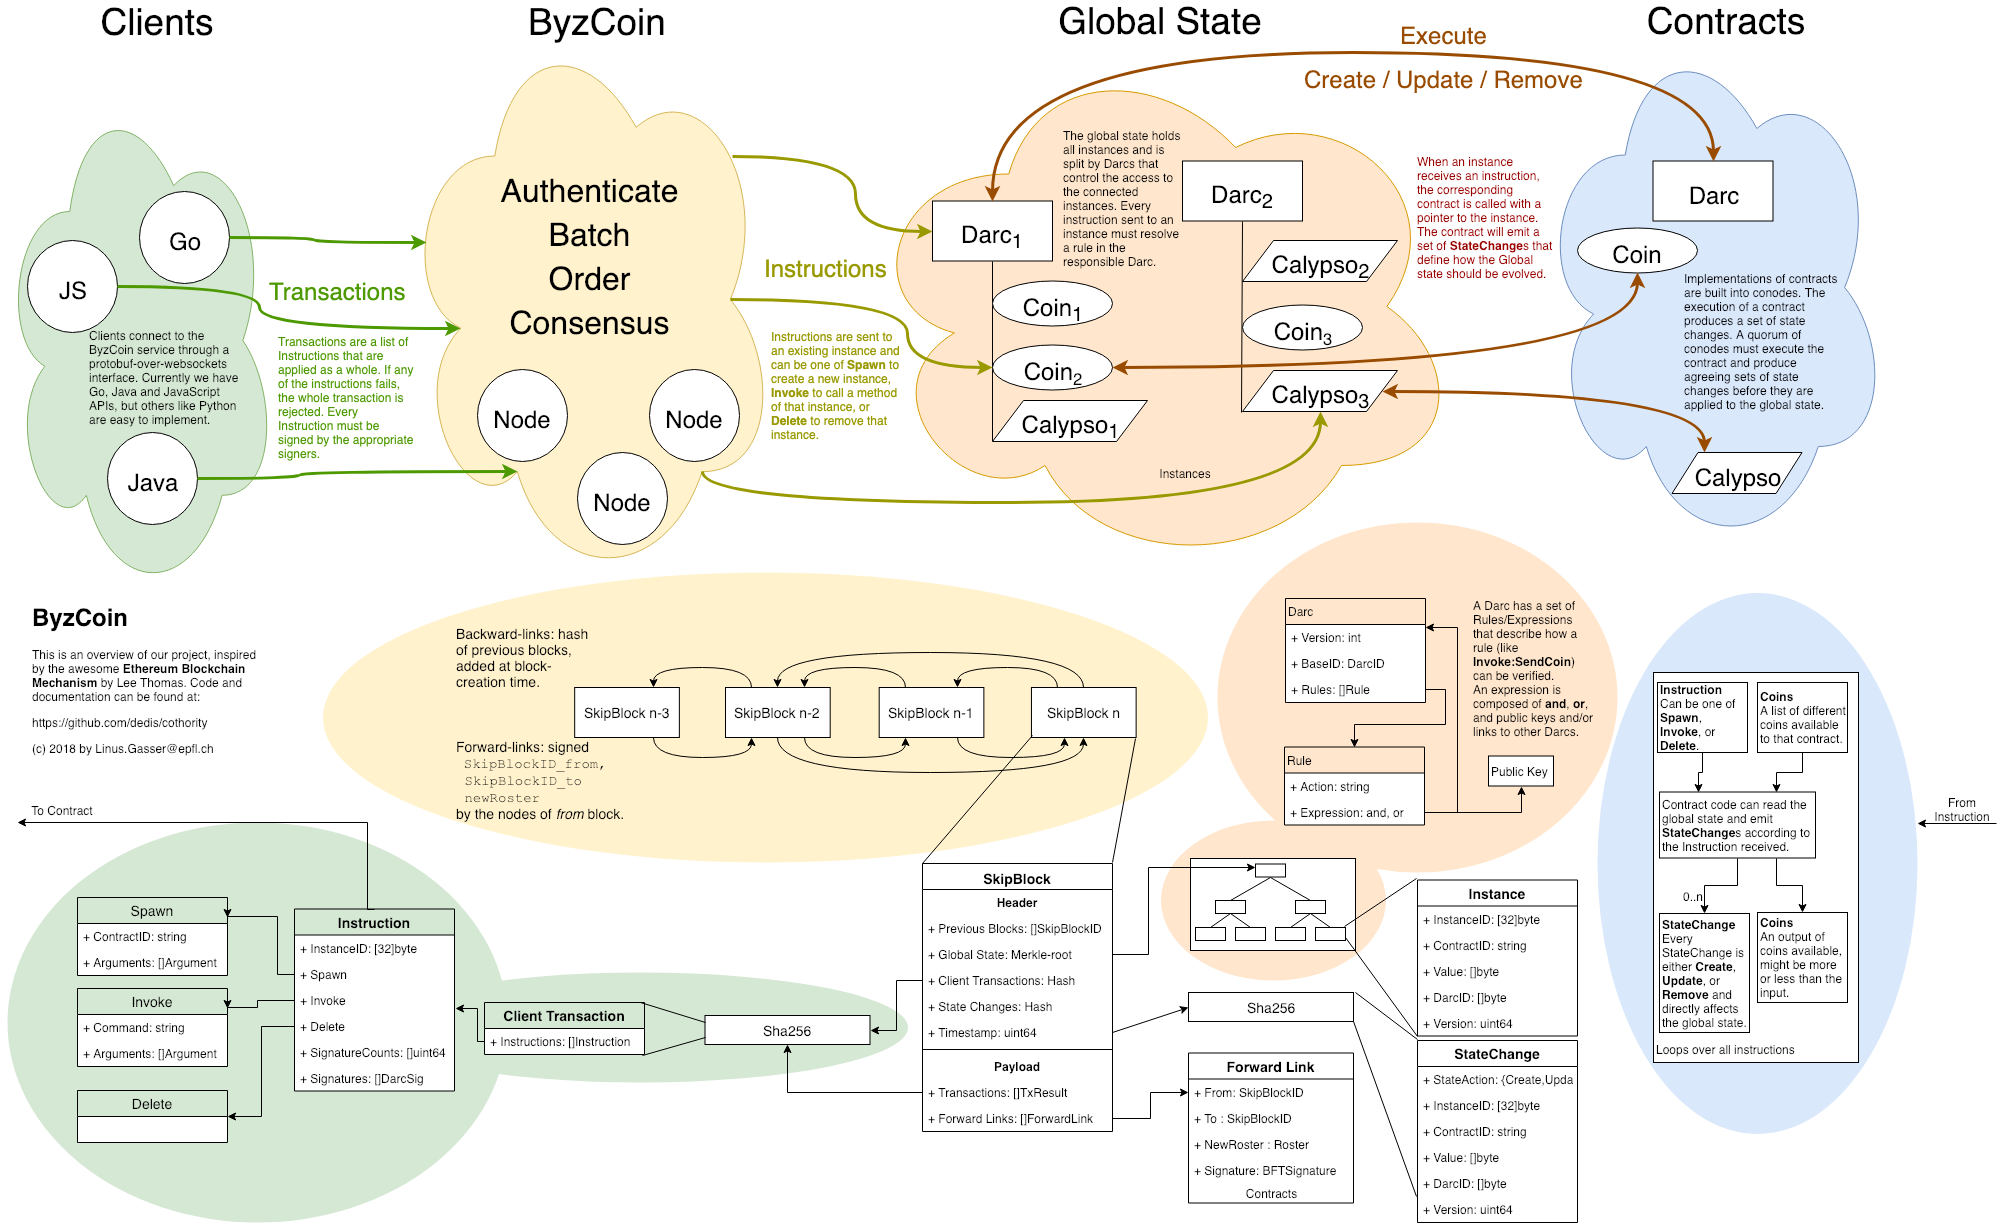
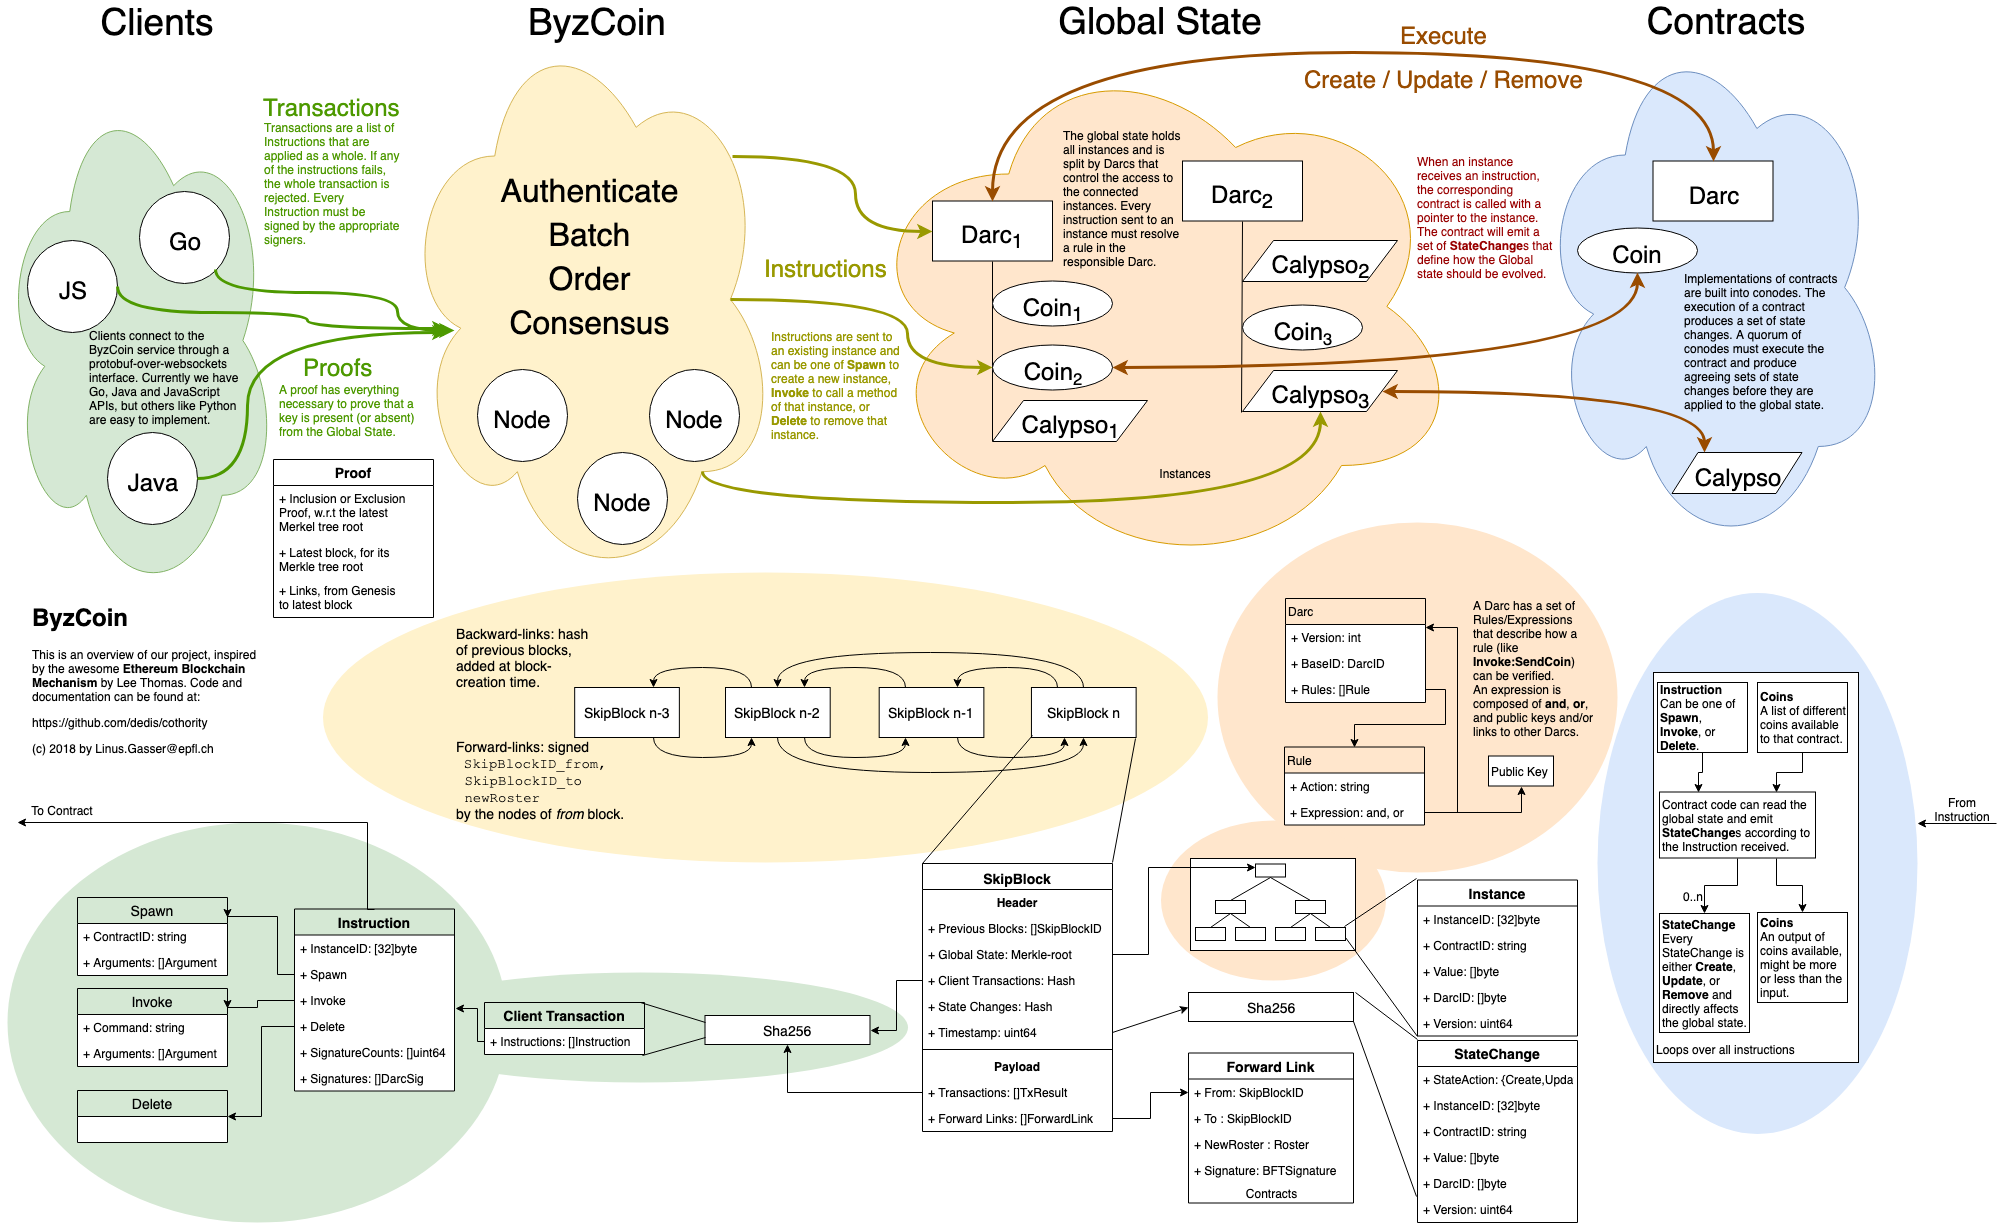
Improve documentation
Improve documentation in several places, as a result of working
with Noémien and documenting proofs.

Fix proof verify code to verify one more thing that the docs
say but the code did not.

Fixes #1769

diff --git a/byzcoin/proto.go b/byzcoin/proto.go
@@ -148,11 +148,11 @@ type ChainConfig struct {
 
 // Proof represents everything necessary to verify a given
 // key/value pair is stored in a skipchain. The proof is in three parts:
-//   1. InclusionProof proofs the presence or absence of the key. In case of
-//   the key being present, the value is included in the proof
-//   2. Latest is used to verify the merkle tree root used in the proof is
-//   stored in the latest skipblock
-//   3. Links proves that the latest skipblock is part of the skipchain
+//   1. InclusionProof proves the presence or absence of the key. In case of
+//   the key being present, the value is included in the proof.
+//   2. Latest is used to verify the Merkle tree root used in the proof is
+//   stored in the latest skipblock.
+//   3. Links proves that the latest skipblock is part of the skipchain.
 //
 // This Structure could later be moved to cothority/skipchain.
 type Proof struct {

diff --git a/byzcoin/tx_pipeline.go b/byzcoin/tx_pipeline.go
@@ -371,7 +371,7 @@ func (p *txPipeline) processTxs(txChan <-chan ClientTransaction, initialState *t
 						// but there's nothing we can do about it at the moment
 						// other than waiting for the timeout.
 						if err := p.processor.ProposeBlock(state); err != nil {
-							log.Error("failed to propose block: ", err)
+							log.Error("failed to propose block:", err)
 							proposalResult <- err
 						} else {
 							proposalResult <- nil

diff --git a/byzcoin/proof.go b/byzcoin/proof.go
@@ -92,6 +92,9 @@ func (p Proof) Verify(scID skipchain.SkipBlockID) error {
 		if i == 0 {
 			// The first forward link is a pointer from []byte{} to the genesis
 			// block and holds the roster of the genesis block.
+			if !l.To.Equal(scID) {
+				return errors.New("first link does not point to the expected chain")
+			}
 			publics = l.NewRoster.ServicePublics(skipchain.ServiceName)
 			continue
 		}

diff --git a/scmgr/README.md b/scmgr/README.md
@@ -21,7 +21,8 @@ running is:
 
 ```bash
 cd cothority/conode
-./run_conode.sh local 3
+go build
+./run_nodes.sh -n 3
 ```
 
 This will start three conodes locally and create a new `public.toml` that
@@ -33,9 +34,9 @@ directory and that you installed `scmgr` using
 go get github.com/dedis/cothority/scmgr
 ```
 
-## Securing node by creating a link
+## Securing the conode by creating a link
 
-Per default, everybody is allowed to use your conode to create new skipchains.
+By default, everybody is allowed to use your conode to create new skipchains.
 This is good for testing setups where your conode is in your private network
 and cannot be accessed from the outside. However, if you put your conode on the
 internet (and you should), you need to create a link with it first, which will
@@ -50,9 +51,9 @@ To link your conode and your client, you need to have access to the
 
 The `private.toml`-file is usually in `~/.config/conode` for Linux-systems and
 in `~/Library/Application\ Support/conode` for MacOSX-systems. However, if you
-started a local cothority for testing using `run_conode.sh`, you should have
+started a local cothority for testing using `run_nodes.sh`, you should have
 three directories, `co1`, `co2` and `co3` and the `private.toml`-file will be
-in those directories.
+in each of those directories.
 
 So for the testing system, the command is:
 
@@ -79,8 +80,7 @@ the _baseheight_, the longer the links between the blocks get. The bigger the
 _maximumheight_, the longer the longest link gets.
 
 Once the skipchain is created, `scmgr` will print out the ID of the new
-skipchain. For the _following_ examples, you can also create a skipchain using
-`cisc` and enter its ID.
+skipchain.
 
 ## Following a skipchain
 
@@ -89,9 +89,9 @@ that this skipchain is trustworthy and that all nodes participating in it are
 also trustworthy. There are three different levels of trust that you can chose:
 
 * ID - only this very skipchain is allowed to use your node to store new blocks
-* Restricted - your block will also accept new skipchains, as long as no other
+* Restricted - your conode will also accept new skipchains, as long as no other
 than a subset of nodes of the given skipchain participate in it
-* Any - your block will also accept new skipchains, as long as _any_ node of the
+* Any - your conode will also accept new skipchains, as long as _any_ node of the
 given skipchain participates
 
 For our example, we will tell _co2_ and _co3_ to follow the skipchain created
@@ -109,15 +109,15 @@ the `scmgr skipchain create` command above.
 `127.0.0.1:7004` and `127.0.0.1:7006` are the IP addresses and port numbers of _co2_
 and _co3_ respectively.
 
-Now you can ask your first node to extend the nodes that participate in the
-skipchain to all nodes:
+Now you can ask your first conode to extend the conodes that participate in the
+skipchain to all conodes:
 
 ```bash
 scmgr skipchain block add -roster public.toml SKIPCHAIN_ID
 ```
 
-Now you have a skipchain that includes all testing-nodes. To see the block that
-you just created, you can use
+Now you have a skipchain that includes all of your testing conodes. To see the block that
+you just created, you can use:
 
 ```bash
 scmgr skipchain block print SKIPBLOCK_ID

diff --git a/byzcoin/DataStructures.md b/byzcoin/DataStructures.md
@@ -130,9 +130,9 @@ that controls access to it.
 To verify the proof, all the verifier needs is the skipchain-ID of where the
 key is supposed to be stored. The proof has three parts:
 
-1. _InclusionProof_ proofs the presence or absence of the key. In case of
+1. _InclusionProof_ proves the presence or absence of the key. In case of
 the key being present, the value is included in the proof.
-2. _Latest_ is used to verify the merkle tree root used in the proof is stored
+2. _Latest_ is used to verify the Merkle tree root used in the proof is stored
    in the latest skipblock.
 3. _Links_ proves that the latest skipblock is part of the skipchain.
 
@@ -176,9 +176,9 @@ message skipchain.ForwardLink{
 During verification, the verifier then can do the following to make sure that the
 key/value pair returned is valid:
 
-1. Verify the inclusion proof of the key in the merkle tree root of the trie
+1. Verify the inclusion proof of the key in the Merkle tree root of the trie
 This is described in the [trie](trie/README.md) package.
-2. Verify the merkle tree root in the InclusionProof is the same as the one
+2. Verify the Merkle tree root in the InclusionProof is the same as the one
 given in the latest skipblock
 3. Verify the Links are a valid chain from the genesis block to the latest block.
 The first forward link points to the genesis block to give the roster to the
